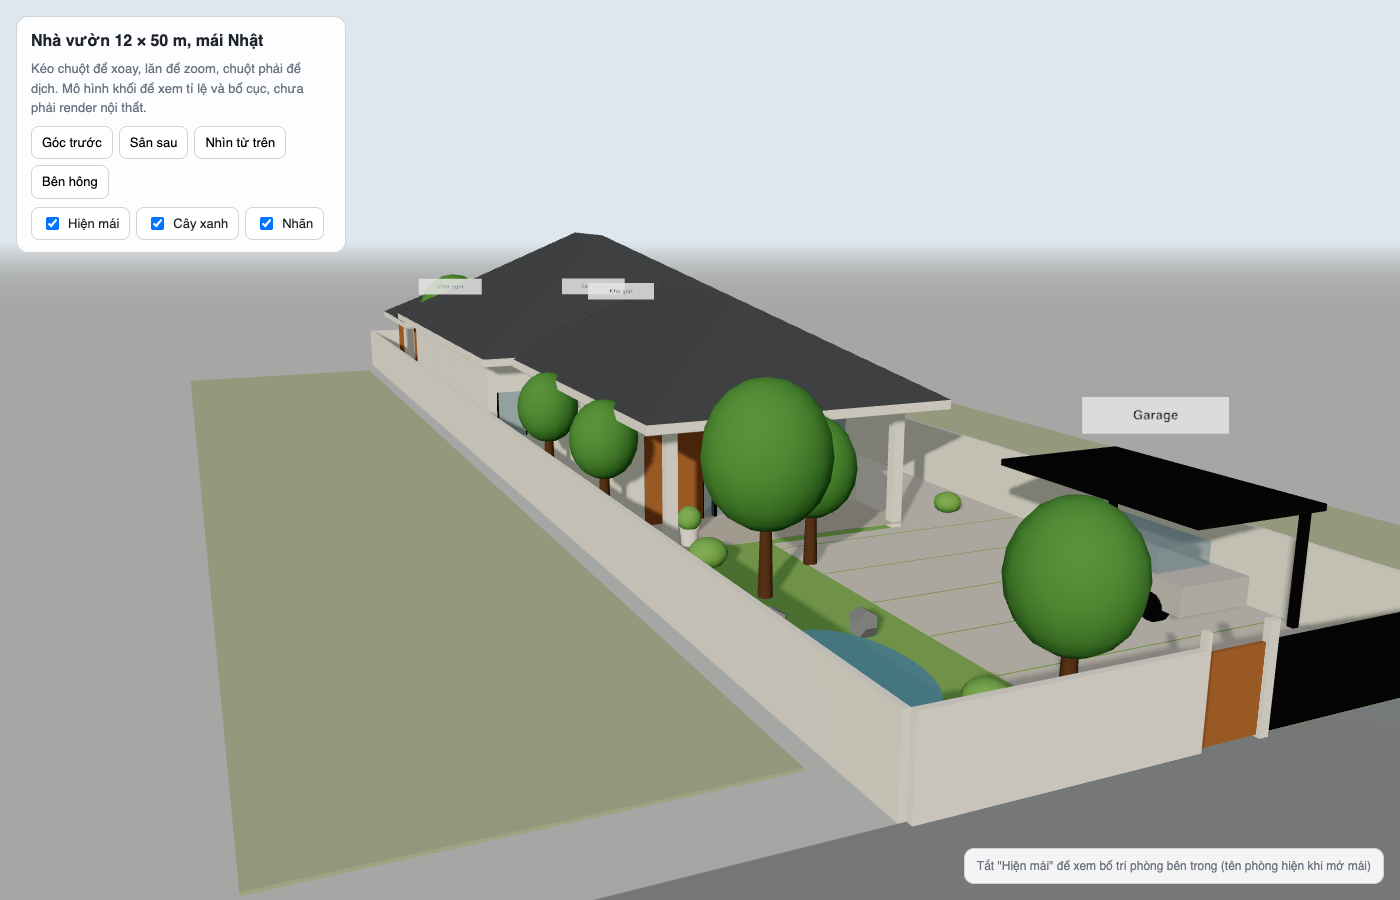
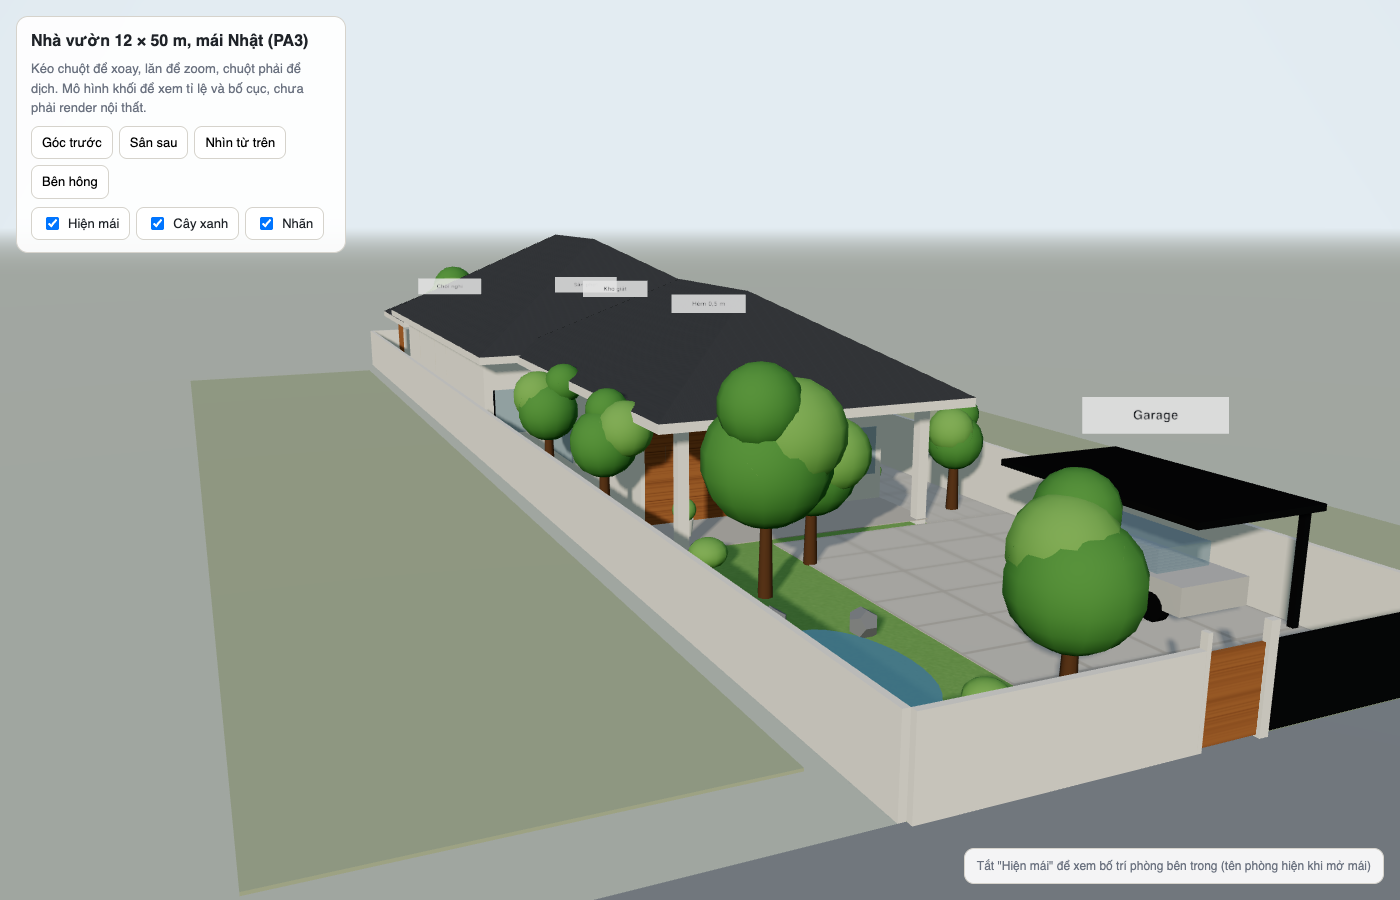
Render lại 3D theo PA3, thêm mặt đứng và mặt cắt

diff --git a/mat-dung-mat-cat.html b/mat-dung-mat-cat.html
@@ -1,0 +1,193 @@
+<!doctype html>
+<html lang="vi">
+<head>
+<meta charset="utf-8">
+<meta name="viewport" content="width=device-width, initial-scale=1">
+<title>Mặt đứng mặt cắt</title>
+<style>
+  :root{--bg:#f6f4ef;--paper:#fff;--ink:#1f2328;--muted:#6b7280;--line:#d6d3cc;
+    --wall:#f4f2ec;--wallline:#2b2f36;--roof:#4b4f55;--wood:#b5763f;--glass:#a9c9dd;--cut:#2b2f36;--ground:#8fae6e;--sky:#eef4f8;--inside:#fbf7ee}
+  *{box-sizing:border-box}
+  body{margin:0;background:var(--bg);color:var(--ink);font:15px/1.55 -apple-system,"Segoe UI",Roboto,Helvetica,Arial,sans-serif}
+  .wrap{max-width:1180px;margin:0 auto;padding:28px 16px 64px}
+  h1{font-size:26px;margin:0 0 4px} h2{font-size:18px;margin:32px 0 8px}
+  .sub{color:var(--muted);margin:0 0 16px}
+  .card{background:var(--paper);border:1px solid var(--line);border-radius:12px;padding:16px;overflow:auto}
+  svg{display:block;max-width:100%;height:auto}
+  .note{color:var(--muted);font-size:14px;margin:8px 0 0}
+  ul{padding-left:20px;margin:6px 0} li{margin:4px 0}
+</style>
+</head>
+<body>
+<div class="wrap">
+  <h1>Mặt đứng và mặt cắt, phương án 3</h1>
+  <p class="sub">Cốt ±0,00 là mặt sân. Nền nhà +0,45 m, trần +3,85 m, mép mái +4,05 m, mái ngói dốc 30°. Kích thước tính bằng mét.</p>
+
+  <h2>1. Mặt đứng chính (nhìn từ cổng vào)</h2>
+  <div class="card"><svg id="front"></svg>
+    <p class="note">Mái gian trước thấp hơn mái gian ngang khoảng 0,9 m nên nhìn từ ngoài thấy hai lớp mái chồng nhau như ảnh mẫu. Mảng gỗ và cửa sổ bên trái là gian thờ, cửa kính 2 cánh bên phải là sảnh vào.</p>
+  </div>
+
+  <h2>2. Mặt đứng bên hông trái</h2>
+  <div class="card"><svg id="side"></svg>
+    <p class="note">Tường gian ngang bên trái xây sát ranh nên không mở cửa sổ. Gian trước lùi vào 1,8 m nên có cửa sổ tròn cho gian thờ và mảng kính cho phòng khách.</p>
+  </div>
+
+  <h2>3. Mặt cắt A-A (cắt dọc giữa nhà)</h2>
+  <div class="card"><svg id="secA"></svg>
+    <p class="note">Giếng trời nằm trên đảo bếp, mở xuyên trần và mái. Không gian áp mái cao tới 3,7 m nên cần lớp cách nhiệt dưới ngói và lỗ thông gió ở hai đầu hồi.</p>
+  </div>
+
+  <h2>4. Mặt cắt B-B (cắt ngang qua 2 phòng ngủ chính)</h2>
+  <div class="card"><svg id="secB"></svg>
+    <p class="note">Hẻm 0,5 m bên phải nằm dưới mái đua 0,3 m, nước mưa rơi vào máng xối chứ không rơi xuống hẻm. Tường rào ranh cao 1,8 m.</p>
+  </div>
+
+  <div class="card" style="margin-top:16px">
+    <b>Ghi chú kỹ thuật sơ bộ</b>
+    <ul>
+      <li>Nền nâng +0,45 m so với sân để chống ẩm và ngập, có 3 bậc ở hiên trước và hiên sau.</li>
+      <li>Trần thạch cao cao 3,4 m tính từ sàn. Riêng phòng khách có thể làm trần nghiêng theo mái để cao hơn.</li>
+      <li>Mái ngói phẳng trên hệ vì kèo thép mạ, có tấm cách nhiệt, máng xối âm dọc hẻm và ranh trái.</li>
+      <li>Đây là bản vẽ ý tưởng. Chiều cao và kết cấu phải do kỹ sư tính lại khi làm hồ sơ xin phép.</li>
+    </ul>
+  </div>
+</div>
+
+<script>
+const NS='http://www.w3.org/2000/svg';
+const C=v=>getComputedStyle(document.documentElement).getPropertyValue(v).trim();
+function el(t,a,p,txt){const e=document.createElementNS(NS,t);for(const k in a)e.setAttribute(k,a[k]);if(txt!=null)e.textContent=txt;p.appendChild(e);return e;}
+const FL=0.45, CE=3.85, EA=4.05;
+function frame(id,X0,X1,Hmax,S){
+  const svg=document.getElementById(id), pad=40, w=(X1-X0)*S+pad*2, h=(Hmax+0.8)*S+pad*2;
+  svg.setAttribute('viewBox',`0 0 ${w} ${h}`); svg.setAttribute('width',w); svg.setAttribute('height',h);
+  const g=el('g',{},svg);
+  const m={g,S,x:v=>pad+(v-X0)*S,y:v=>pad+(Hmax-v)*S,X0,X1};
+  el('rect',{x:0,y:0,width:w,height:m.y(0),fill:C('--sky')},g);
+  el('rect',{x:0,y:m.y(0),width:w,height:h-m.y(0),fill:C('--ground'),opacity:.35},g);
+  el('line',{x1:0,y1:m.y(0),x2:w,y2:m.y(0),stroke:C('--ink'),'stroke-width':2},g);
+  return m;
+}
+function R(m,x1,x2,y1,y2,a){return el('rect',Object.assign({x:m.x(x1),y:m.y(y2),width:(x2-x1)*m.S,height:(y2-y1)*m.S},a),m.g);}
+function P(m,pts,a){return el('polygon',Object.assign({points:pts.map(([x,y])=>m.x(x)+','+m.y(y)).join(' ')},a),m.g);}
+function L(m,x1,y1,x2,y2,a){return el('line',Object.assign({x1:m.x(x1),y1:m.y(y1),x2:m.x(x2),y2:m.y(y2)},a),m.g);}
+function T(m,x,y,s,o={}){const t=el('text',{x:m.x(x),y:m.y(y),'text-anchor':o.anchor||'middle','font-size':o.size||11,fill:o.fill||C('--ink'),'font-weight':o.bold?600:400},m.g,s);return t;}
+const wallA=()=>({fill:C('--wall'),stroke:C('--wallline'),'stroke-width':1.2});
+const glassA=()=>({fill:C('--glass'),stroke:'#1f2328','stroke-width':1.5});
+const roofA=()=>({fill:C('--roof'),stroke:'#2b2f36','stroke-width':1.2});
+function fascia(m,x1,x2){R(m,x1,x2,EA-0.25,EA,{fill:'#fff',stroke:C('--wallline'),'stroke-width':1});}
+function levels(m,x,items){items.forEach(([v,s])=>{L(m,x-0.2,v,x+0.2,v,{stroke:C('--muted')});T(m,x+0.3,v-0.07,s,{anchor:'start',size:10,fill:C('--muted')});});}
+function hdim(m,x1,x2,y,s){L(m,x1,y,x2,y,{stroke:C('--muted')});[x1,x2].forEach(x=>L(m,x,y-0.12,x,y+0.12,{stroke:C('--muted')}));T(m,(x1+x2)/2,y+0.12,s,{size:10,fill:C('--muted')});}
+function steps(m,x,dir){for(let i=0;i<3;i++){const x1=x+dir*i*0.3;R(m,Math.min(x1,x1+dir*0.3),Math.max(x1,x1+dir*0.3),0,FL-i*0.15,{fill:'#d9d6cf',stroke:'#9a968e','stroke-width':.8});}}
+const tri=(a,b,h)=>(b-a)/2*Math.tan(Math.PI/6)+h;
+
+// 1. FRONT ELEVATION (axis = width w)
+(function(){
+  const m=frame('front',-1.5,13.5,8.2,62);
+  const rCross=tri(-0.3,11.8,EA), rFront=tri(1.0,10.1,EA);
+  // cross wing behind
+  P(m,[[-0.3,EA],[11.8,EA],[5.75,rCross]],roofA()); fascia(m,-0.3,11.8);
+  R(m,0,11.5,0,EA-0.25,wallA());
+  R(m,0.3,1.5,FL+0.9,FL+2.3,glassA()); R(m,9.6,11.2,FL+0.9,FL+2.3,glassA());
+  // front wing
+  R(m,1.3,9.8,0,FL,{fill:'#d9d6cf',stroke:'#9a968e'});           // porch plinth
+  R(m,1.8,9.3,FL,EA-0.25,wallA());
+  R(m,1.9,5.2,FL,FL+2.7,{fill:C('--wood'),stroke:'#6b4a2b','stroke-width':1});
+  R(m,2.5,4.5,FL+0.9,FL+2.3,glassA());
+  R(m,6.0,8.0,FL,FL+2.6,glassA()); L(m,7,FL,7,FL+2.6,{stroke:'#1f2328','stroke-width':2});
+  R(m,8.3,9.1,FL+0.9,FL+2.3,glassA());
+  [[1.85,2.15],[8.95,9.25]].forEach(([a,b])=>R(m,a,b,FL,EA-0.25,{fill:'#fff',stroke:C('--wallline')}));
+  P(m,[[1.0,EA],[10.1,EA],[5.55,rFront]],roofA()); fascia(m,1.0,10.1);
+  for(let i=0;i<3;i++) R(m,6.0-0.1,8.1,FL-(i+1)*0.15,FL-i*0.15,{fill:'#cfcbc3',stroke:'#9a968e','stroke-width':.8,transform:`translate(0,${i*0})`});
+  T(m,3.5,FL+3.0,'GIAN THỜ',{size:11,bold:true}); T(m,7,FL+3.0,'SẢNH VÀO',{size:11,bold:true});
+  T(m,0.9,FL+2.6,'ngủ 3',{size:10}); T(m,10.4,FL+2.6,'ngủ 4',{size:10});
+  levels(m,12.3,[[0,''],[FL,'+0,45 nền / ±0,00 sân'],[EA,'+4,05 mép mái'],[rFront,'+'+rFront.toFixed(2).replace('.',',')+' đỉnh mái trước'],[rCross,'+'+rCross.toFixed(2).replace('.',',')+' đỉnh mái sau']]);
+  hdim(m,0,11.5,-0.5,'11,5 nhà'); hdim(m,11.5,12,-0.5,'0,5');
+})();
+
+// 2. LEFT SIDE ELEVATION (axis = depth d)
+(function(){
+  const m=frame('side',11,43,8.2,34);
+  const rF=tri(1.0,10.1,EA), rC=tri(-0.3,11.8,EA);
+  // front wing roof (further back from viewer, draw first)
+  P(m,[[12.2,EA],[26.3,EA],[26.3-4.55,rF],[12.2+4.55,rF]],roofA()); fascia(m,12.2,26.3);
+  R(m,13,15.5,0,FL,{fill:'#d9d6cf',stroke:'#9a968e'});
+  R(m,15.5,25.5,FL,EA-0.25,wallA());
+  el('circle',{cx:m.x(17.7),cy:m.y(FL+1.9),r:0.55*m.S,fill:C('--glass'),stroke:'#1f2328','stroke-width':3},m.g);
+  R(m,21.5,24.5,FL+0.6,FL+2.6,glassA());
+  R(m,13.05,13.35,FL,EA-0.25,{fill:'#fff',stroke:C('--wallline')});
+  steps(m,13,-1);
+  // cross wing
+  R(m,25.5,39.3,0,EA-0.25,wallA());
+  R(m,39.3,41.1,0,FL,{fill:'#d9d6cf',stroke:'#9a968e'});
+  R(m,40.9,41.2,FL,EA-0.25,{fill:'#fff',stroke:C('--wallline')});
+  steps(m,41.1,1);
+  P(m,[[24.7,EA],[41.9,EA],[41.9-6.05,rC],[24.7+6.05,rC]],roofA()); fascia(m,24.7,41.9);
+  T(m,17.7,FL+3.0,'gian thờ',{size:10}); T(m,23,FL+3.0,'phòng khách',{size:10}); T(m,32.4,FL+1.6,'tường sát ranh, không mở cửa',{size:10,fill:C('--muted')});
+  hdim(m,13,25.5,-0.5,'gian trước 12,5'); hdim(m,25.5,41.1,-0.5,'gian ngang + hiên sau 15,6');
+  levels(m,42.3,[[FL,'+0,45'],[EA,'+4,05'],[rC,'+'+rC.toFixed(2).replace('.',',')]]);
+})();
+
+// 3. SECTION A-A (longitudinal at w≈5.6)
+(function(){
+  const m=frame('secA',11,43,8.2,34);
+  const rF=tri(1.0,10.1,EA), rC=tri(-0.3,11.8,EA);
+  const roofLine=(pts)=>{P(m,pts,{fill:'#e9e5dc',stroke:'none'}); el('polyline',{points:pts.map(([x,y])=>m.x(x)+','+m.y(y)).join(' '),fill:'none',stroke:C('--roof'),'stroke-width':6},m.g);};
+  roofLine([[12.2,EA],[16.75,rF],[21.75,rF],[26.3,EA]]);
+  roofLine([[24.7,EA],[30.75,rC],[35.85,rC],[41.9,EA]]);
+  R(m,15.5,39.3,FL,CE,{fill:C('--inside')});
+  // ceiling
+  L(m,15.5,CE,26.8,CE,{stroke:'#8a8f96','stroke-width':3}); L(m,30.2,CE,39.3,CE,{stroke:'#8a8f96','stroke-width':3});
+  // skylight shaft + glass on roof
+  R(m,26.8,30.2,CE,tri(-0.3,11.8,EA)-0.2,{fill:'#fff7d6',opacity:.9});
+  const yAt=d=>EA+(d-24.7)*Math.tan(Math.PI/6);
+  L(m,26.8,yAt(26.8),30.2,yAt(30.2),{stroke:'#5aa9e6','stroke-width':6});
+  L(m,26.8,CE,26.8,yAt(26.8),{stroke:'#8a8f96','stroke-width':1.5}); L(m,30.2,CE,30.2,yAt(30.2),{stroke:'#8a8f96','stroke-width':1.5});
+  T(m,28.5,yAt(30.2)+0.35,'GIẾNG TRỜI',{size:10,bold:true});
+  // floor slab
+  R(m,13,41.1,FL-0.15,FL,{fill:C('--cut')}); R(m,13,41.1,0,FL-0.15,{fill:'#cfcbc3'});
+  // cut walls
+  const cw=(d)=>R(m,d-0.1,d+0.1,FL,CE,{fill:C('--cut')});
+  R(m,15.4,15.6,FL+2.6,CE,{fill:C('--cut')}); R(m,15.45,15.55,FL,FL+2.6,{fill:C('--glass')});
+  R(m,39.2,39.4,FL+2.3,CE,{fill:C('--cut')}); R(m,39.25,39.35,FL,FL+2.3,{fill:C('--wood')});
+  [20,25.5,31.5,33.7,36.9].forEach(d=>R(m,d-0.1,d+0.1,FL+2.8,CE,{fill:C('--cut')}));
+  [[13.05,13.35],[40.9,41.2]].forEach(([a,b])=>R(m,a,b,FL,EA-0.25,{fill:'#fff',stroke:C('--wallline')}));
+  // furniture silhouettes
+  R(m,26.1,30.9,FL,FL+0.9,{fill:'#d9c6a5',stroke:'#8b5a2b'});    // đảo bếp
+  L(m,27.2,CE,27.2,CE-0.8,{stroke:'#2b2f36'}); L(m,28.5,CE,28.5,CE-0.8,{stroke:'#2b2f36'}); L(m,29.8,CE,29.8,CE-0.8,{stroke:'#2b2f36'});
+  [[14.2,'HIÊN'],[17.75,'SẢNH VÀO'],[22.75,'PHÒNG KHÁCH'],[28.5,'BẾP + ĐẢO'],[32.6,'SẢNH'],[35.3,'SẢNH SAU'],[38.1,'LỐI RA'],[40.2,'HIÊN SAU']].forEach(([d,s])=>T(m,d,FL+1.5,s,{size:10,bold:true}));
+  T(m,19,rF-1.1,'áp mái',{size:10,fill:C('--muted')}); T(m,34,rC-1.3,'áp mái, cách nhiệt',{size:10,fill:C('--muted')});
+  levels(m,42.3,[[FL,'+0,45 sàn'],[CE,'+3,85 trần'],[rF,'+'+rF.toFixed(2).replace('.',',')],[rC,'+'+rC.toFixed(2).replace('.',',')]]);
+  hdim(m,13,15.5,-0.5,'2,5'); hdim(m,15.5,20,-0.5,'4,5'); hdim(m,20,25.5,-0.5,'5,5'); hdim(m,25.5,31.5,-0.5,'6'); hdim(m,31.5,33.7,-0.5,'2,2'); hdim(m,33.7,36.9,-0.5,'3,2'); hdim(m,36.9,39.3,-0.5,'2,4'); hdim(m,39.3,41.1,-0.5,'1,8');
+})();
+
+// 4. SECTION B-B (transverse at d≈35, through masters)
+(function(){
+  const m=frame('secB',-1.5,13.5,8.2,62);
+  const rC=tri(-0.3,11.8,EA);
+  P(m,[[-0.3,EA],[5.75,rC],[11.8,EA]],{fill:'#e9e5dc'});
+  el('polyline',{points:[[-0.3,EA],[5.75,rC],[11.8,EA]].map(([x,y])=>m.x(x)+','+m.y(y)).join(' '),fill:'none',stroke:C('--roof'),'stroke-width':7},m.g);
+  fascia(m,-0.3,0); fascia(m,11.5,11.8);
+  R(m,0,11.5,FL,CE,{fill:C('--inside')});
+  L(m,0,CE,11.5,CE,{stroke:'#8a8f96','stroke-width':3});
+  R(m,0,11.5,FL-0.15,FL,{fill:C('--cut')}); R(m,-0.2,11.7,0,FL-0.15,{fill:'#cfcbc3'});
+  R(m,-0.1,0.1,FL,CE+0.2,{fill:C('--cut')}); R(m,11.4,11.6,FL,CE+0.2,{fill:C('--cut')});
+  R(m,3.75,3.85,FL,CE,{fill:C('--cut')}); R(m,7.65,7.75,FL,CE,{fill:C('--cut')});
+  // fence on right boundary + gutter
+  R(m,11.95,12.1,0,1.8,{fill:C('--wall'),stroke:C('--wallline')});
+  R(m,11.55,11.85,EA-0.2,EA,{fill:'#8a8f96'}); T(m,12.6,EA-0.1,'máng xối',{size:10,fill:C('--muted'),anchor:'start'});
+  T(m,11.75,0.25,'hẻm 0,5',{size:10,fill:C('--muted')}); T(m,12.6,1.8,'rào ranh 1,8',{size:10,fill:C('--muted'),anchor:'start'});
+  // beds
+  R(m,0.4,2.0,FL,FL+0.5,{fill:'#fff',stroke:'#9bb6d4'}); R(m,9.5,11.1,FL,FL+0.5,{fill:'#fff',stroke:'#9bb6d4'});
+  R(m,3.2,3.75,FL,CE,{fill:'#e5e7eb',stroke:'#b8b3a8'}); R(m,7.75,8.3,FL,CE,{fill:'#e5e7eb',stroke:'#b8b3a8'});
+  T(m,1.9,FL+2.0,'NGỦ CHÍNH 1',{size:11,bold:true}); T(m,5.75,FL+2.0,'SẢNH SAU',{size:11,bold:true}); T(m,9.6,FL+2.0,'NGỦ CHÍNH 2',{size:11,bold:true});
+  T(m,3.5,FL+3.1,'tủ âm',{size:9,fill:C('--muted')}); T(m,8.0,FL+3.1,'tủ âm',{size:9,fill:C('--muted')});
+  T(m,5.75,rC-1.5,'áp mái cao '+(rC-CE).toFixed(1).replace('.',',')+' m',{size:10,fill:C('--muted')});
+  levels(m,-1.2,[]);
+  hdim(m,0,3.8,-0.5,'3,8'); hdim(m,3.8,7.7,-0.5,'3,9'); hdim(m,7.7,11.5,-0.5,'3,8'); hdim(m,11.5,12,-0.5,'0,5');
+  levels(m,13.0,[[FL,'+0,45'],[CE,'+3,85'],[rC,'+'+rC.toFixed(2).replace('.',',')]]);
+})();
+</script>
+</body>
+</html>
